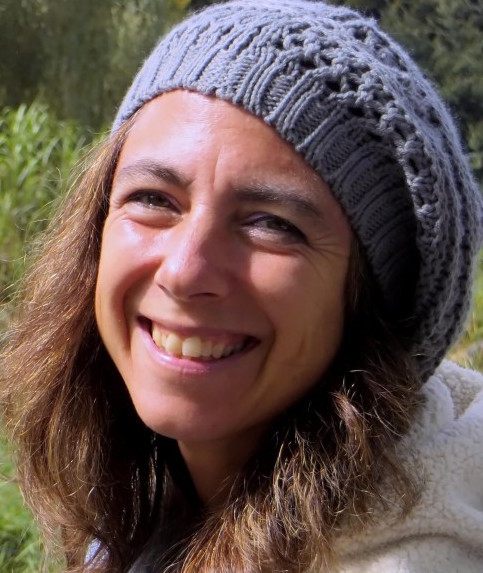
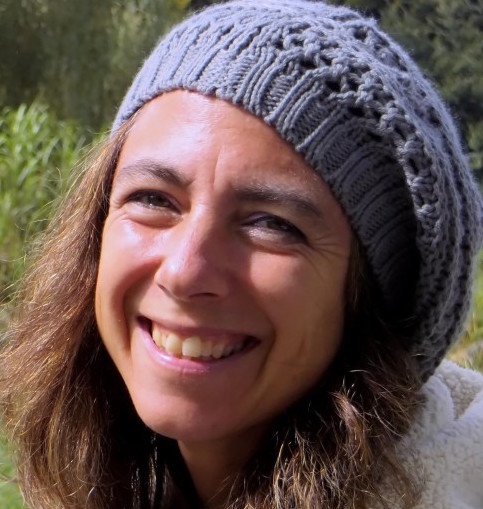
Round team fotos improved

diff --git a/src/pages/team.js b/src/pages/team.js
@@ -105,7 +105,7 @@ export const pageQuery = graphql`
             name: title
             image {
               childImageSharp {
-               resolutions(width: 160, height: 160, quality: 90) {
+               resolutions(width: 160, height: 160, quality: 90, cropFocus: CENTER) {
                  ...GatsbyImageSharpResolutions
                }
               }
